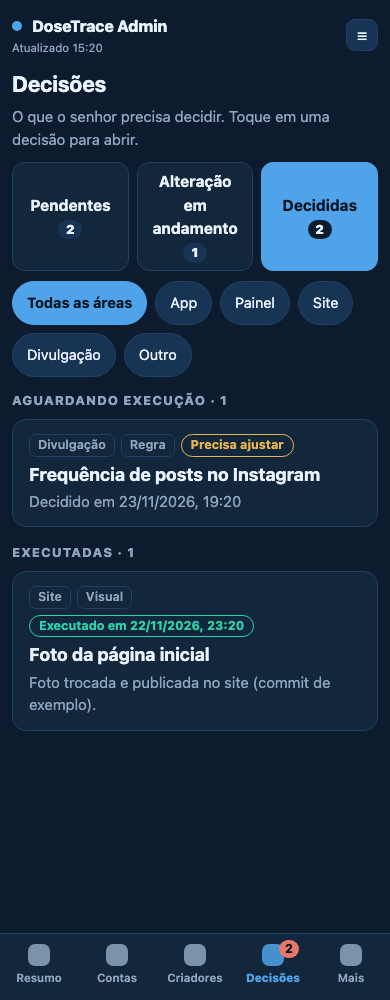
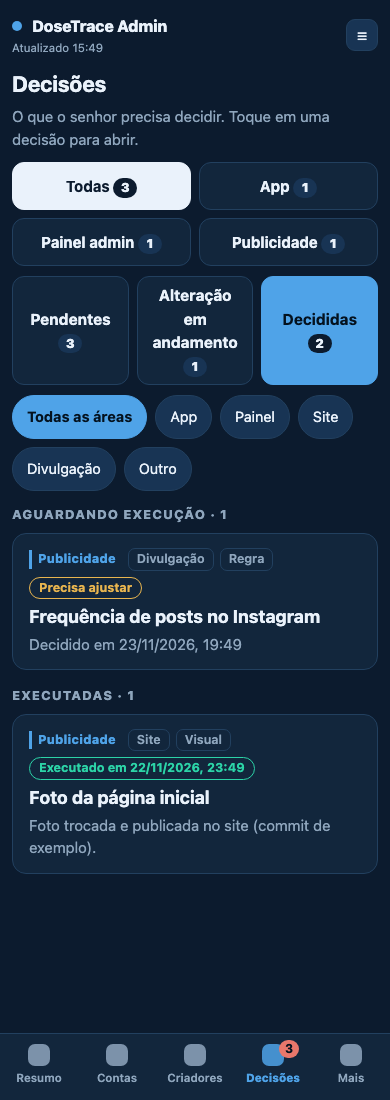
Painel Decisoes: separated by the session that posted it (founder 2026-11-24), test first (DC2, DC7)
Three sessions write decisions: App (origem app), Painel admin (adm) and Publicidade (ads).
- Migration 20261124020000_founder_decisions_origem.sql records what the coordinating session already applied (origem text not null default app, check app/adm/ads, index origem+status); idempotent, header APPLIED 2026-11-24. The alterando migration header now says APPLIED too (verified live: status check lists alterando, rework check present, the save refuses alterando).
- API: origem on every item, by_origem with the counts per group, ?origem= filter (unknown 400); the total counts never filtered.
- Tab: segmented control at the top (Todas, App, Painel admin, Publicidade) with the pending count of each; the group counts follow the chosen origin; an origin label on every card and on the decision page; the tab badge stays the total pending. 6 languages, panel tokens, 2 x 2 on the phone.
- docs/decisoes.md: origem in the insert and in the reads. Captures replaced and added (390 px, light and dark).
Full suite 848, 844 pass, 0 fail, 4 todo. Nothing deployed.

diff --git a/web/adm-decisions.js b/web/adm-decisions.js
@@ -7,7 +7,7 @@
   'use strict';
   var T = {
     en: {
-      title_h: 'Decisions', intro: 'What you need to decide. Tap a decision to open it.',
+      title_h: 'Decisions', o_all: 'All', o_app: 'App', o_adm: 'Admin panel', o_ads: 'Marketing', o_from: 'Posted by', intro: 'What you need to decide. Tap a decision to open it.',
       g_pendentes: 'Pending', g_alterando: 'Being changed', g_decididas: 'Decided',
       area_all: 'All areas', a_app: 'App', a_painel: 'Panel', a_site: 'Website', a_divulgacao: 'Marketing', a_outro: 'Other',
       k_visual: 'Visual', k_texto: 'Text', k_regra: 'Rule', k_outro: 'Other',
@@ -24,7 +24,7 @@
       e_executed: 'This decision has already been carried out and can no longer be changed.', e_rate: 'Too many saves in a short time. Try again in {m} min.', e_choice: 'This option no longer exists in this decision. Open the decision again.', e_generic: 'Could not save ({m}). Your text is still here.', e_code: 'Code not confirmed.',
     },
     pt: {
-      title_h: 'Decisões', intro: 'O que o senhor precisa decidir. Toque em uma decisão para abrir.',
+      title_h: 'Decisões', o_all: 'Todas', o_app: 'App', o_adm: 'Painel admin', o_ads: 'Publicidade', o_from: 'Enviada por', intro: 'O que o senhor precisa decidir. Toque em uma decisão para abrir.',
       g_pendentes: 'Pendentes', g_alterando: 'Alteração em andamento', g_decididas: 'Decididas',
       area_all: 'Todas as áreas', a_app: 'App', a_painel: 'Painel', a_site: 'Site', a_divulgacao: 'Divulgação', a_outro: 'Outro',
       k_visual: 'Visual', k_texto: 'Texto', k_regra: 'Regra', k_outro: 'Outro',
@@ -43,7 +43,7 @@
   };
   function tr(base, over) { var o = {}; Object.keys(base).forEach(function (k) { o[k] = over[k] != null ? over[k] : base[k]; }); return o; }
   T.es = tr(T.en, {
-    title_h: 'Decisiones', intro: 'Lo que tienes que decidir. Toca una decisión para abrirla.', g_pendentes: 'Pendientes', g_alterando: 'Cambio en curso', g_decididas: 'Decididas',
+    title_h: 'Decisiones', o_all: 'Todas', o_app: 'App', o_adm: 'Panel admin', o_ads: 'Publicidad', o_from: 'Enviada por', intro: 'Lo que tienes que decidir. Toca una decisión para abrirla.', g_pendentes: 'Pendientes', g_alterando: 'Cambio en curso', g_decididas: 'Decididas',
     area_all: 'Todas las áreas', a_app: 'App', a_painel: 'Panel', a_site: 'Sitio web', a_divulgacao: 'Difusión', a_outro: 'Otro', k_visual: 'Visual', k_texto: 'Texto', k_regra: 'Regla', k_outro: 'Otro',
     loading: 'Cargando las decisiones…', e_conf: 'La pestaña Decisiones aún no está activa en el servidor (falta aplicar la migración).', e_load: 'No se pudieron cargar las decisiones ({n}).', retry: 'Reintentar',
     empty_pendentes: 'Ninguna decisión pendiente.', empty_alterando: 'Ninguna decisión en cambio.', empty_decididas: 'Aún no hay decisiones tomadas.', sub_waiting: 'Esperando ejecución', sub_executadas: 'Ejecutadas',
@@ -58,7 +58,7 @@
     e_executed: 'Esta decisión ya se ejecutó y ya no se puede cambiar.', e_rate: 'Demasiados guardados en poco tiempo. Inténtalo de nuevo en {m} min.', e_choice: 'Esta opción ya no existe en esta decisión. Abre la decisión de nuevo.', e_generic: 'No se pudo guardar ({m}). Tu texto sigue aquí.', e_code: 'Código no confirmado.',
   });
   T.fr = tr(T.en, {
-    title_h: 'Décisions', intro: 'Ce que vous devez décider. Touchez une décision pour l’ouvrir.', g_pendentes: 'En attente', g_alterando: 'Modification en cours', g_decididas: 'Décidées',
+    title_h: 'Décisions', o_all: 'Toutes', o_app: 'Appli', o_adm: 'Panneau admin', o_ads: 'Publicité', o_from: 'Envoyée par', intro: 'Ce que vous devez décider. Touchez une décision pour l’ouvrir.', g_pendentes: 'En attente', g_alterando: 'Modification en cours', g_decididas: 'Décidées',
     area_all: 'Tous les domaines', a_app: 'Appli', a_painel: 'Panneau', a_site: 'Site web', a_divulgacao: 'Communication', a_outro: 'Autre', k_visual: 'Visuel', k_texto: 'Texte', k_regra: 'Règle', k_outro: 'Autre',
     loading: 'Chargement des décisions…', e_conf: 'L’onglet Décisions n’est pas encore actif sur le serveur (la migration n’a pas été appliquée).', e_load: 'Impossible de charger les décisions ({n}).', retry: 'Réessayer',
     empty_pendentes: 'Aucune décision en attente.', empty_alterando: 'Aucune décision en cours de modification.', empty_decididas: 'Aucune décision prise pour l’instant.', sub_waiting: 'En attente de réalisation', sub_executadas: 'Réalisées',
@@ -73,7 +73,7 @@
     e_executed: 'Cette décision a déjà été réalisée et ne peut plus être modifiée.', e_rate: 'Trop d’enregistrements en peu de temps. Réessayez dans {m} min.', e_choice: 'Cette option n’existe plus dans cette décision. Rouvrez la décision.', e_generic: 'Impossible d’enregistrer ({m}). Votre texte est toujours là.', e_code: 'Code non confirmé.',
   });
   T.de = tr(T.en, {
-    title_h: 'Entscheidungen', intro: 'Was du entscheiden musst. Tippe auf eine Entscheidung, um sie zu öffnen.', g_pendentes: 'Offen', g_alterando: 'Wird geändert', g_decididas: 'Entschieden',
+    title_h: 'Entscheidungen', o_all: 'Alle', o_app: 'App', o_adm: 'Admin-Panel', o_ads: 'Werbung', o_from: 'Gesendet von', intro: 'Was du entscheiden musst. Tippe auf eine Entscheidung, um sie zu öffnen.', g_pendentes: 'Offen', g_alterando: 'Wird geändert', g_decididas: 'Entschieden',
     area_all: 'Alle Bereiche', a_app: 'App', a_painel: 'Panel', a_site: 'Website', a_divulgacao: 'Marketing', a_outro: 'Sonstiges', k_visual: 'Visuell', k_texto: 'Text', k_regra: 'Regel', k_outro: 'Sonstiges',
     loading: 'Entscheidungen werden geladen…', e_conf: 'Der Tab Entscheidungen ist auf dem Server noch nicht aktiv (die Migration fehlt).', e_load: 'Entscheidungen konnten nicht geladen werden ({n}).', retry: 'Erneut versuchen',
     empty_pendentes: 'Keine offene Entscheidung.', empty_alterando: 'Keine Entscheidung wird gerade geändert.', empty_decididas: 'Noch keine Entscheidung getroffen.', sub_waiting: 'Wartet auf Umsetzung', sub_executadas: 'Umgesetzt',
@@ -88,7 +88,7 @@
     e_executed: 'Diese Entscheidung wurde bereits umgesetzt und kann nicht mehr geändert werden.', e_rate: 'Zu viele Speichervorgänge in kurzer Zeit. Versuche es in {m} Min. erneut.', e_choice: 'Diese Option gibt es in dieser Entscheidung nicht mehr. Öffne die Entscheidung erneut.', e_generic: 'Speichern fehlgeschlagen ({m}). Dein Text ist noch da.', e_code: 'Code nicht bestätigt.',
   });
   T.it = tr(T.en, {
-    title_h: 'Decisioni', intro: 'Ciò che devi decidere. Tocca una decisione per aprirla.', g_pendentes: 'In sospeso', g_alterando: 'Modifica in corso', g_decididas: 'Decise',
+    title_h: 'Decisioni', o_all: 'Tutte', o_app: 'App', o_adm: 'Pannello admin', o_ads: 'Pubblicità', o_from: 'Inviata da', intro: 'Ciò che devi decidere. Tocca una decisione per aprirla.', g_pendentes: 'In sospeso', g_alterando: 'Modifica in corso', g_decididas: 'Decise',
     area_all: 'Tutte le aree', a_app: 'App', a_painel: 'Pannello', a_site: 'Sito web', a_divulgacao: 'Promozione', a_outro: 'Altro', k_visual: 'Visivo', k_texto: 'Testo', k_regra: 'Regola', k_outro: 'Altro',
     loading: 'Caricamento delle decisioni…', e_conf: 'La scheda Decisioni non è ancora attiva sul server (manca la migrazione).', e_load: 'Impossibile caricare le decisioni ({n}).', retry: 'Riprova',
     empty_pendentes: 'Nessuna decisione in sospeso.', empty_alterando: 'Nessuna decisione in modifica.', empty_decididas: 'Ancora nessuna decisione presa.', sub_waiting: 'In attesa di esecuzione', sub_executadas: 'Eseguite',
@@ -106,6 +106,8 @@
 
   var GROUPS = ['pendentes', 'alterando', 'decididas'];
   var AREAS = ['app', 'painel', 'site', 'divulgacao', 'outro'];
+  // Which Claude session posted it (founder 2026-11-24): App · Painel admin · Publicidade.
+  var ORIGENS = ['app', 'adm', 'ads'];
   var MAX_NOTE = 4000;
   var DRAFT_KEY = 'dt_adm_dc_draft_';
   function L() { try { return (window.DTADM && window.DTADM.lang()) || 'en'; } catch (e) { return 'en'; } }
@@ -128,7 +130,7 @@
   function dropDraft(id) { try { var s = store(); if (s) s.removeItem(DRAFT_KEY + id); } catch (e) {} }
 
   // ------------------------------------------------------------------ state, API
-  var DC = { root: null, data: null, err: null, loading: false, group: 'pendentes', area: '', sel: null, det: null, detErr: null, draft: null, busy: false, saveErr: null, savedAt: null, box: null };
+  var DC = { root: null, data: null, err: null, loading: false, group: 'pendentes', area: '', origem: '', sel: null, det: null, detErr: null, draft: null, busy: false, saveErr: null, savedAt: null, box: null };
   function api(m, b, q) { return window.DTADM.api(m, b, '/api/adm-decisions' + (q || '')); }
   function pending() { return DC.data && DC.data.counts ? DC.data.counts.pendentes : null; }
   function paintBadge() {
@@ -201,17 +203,20 @@
     var cls = r.status === 'aprovado' ? 'good' : r.status === 'recusado' ? 'bad' : r.status === 'ajustar' ? 'warn' : 'acc';
     return '<span class="dc-st ' + cls + '">' + esc(t('st_' + r.status)) + '</span>';
   }
+  function origLabel(r) { var o = ORIGENS.indexOf(r.origem) >= 0 ? r.origem : 'app'; return '<span class="dc-orig">' + esc(t('o_' + o)) + '</span>'; }
   function tags(r) { return '<span class="dc-tag">' + esc(t('a_' + r.area)) + '</span><span class="dc-tag">' + esc(t('k_' + r.kind)) + '</span>'; }
   function list() {
-    var d = DC.data, c = (d && d.counts) || { pendentes: 0, alterando: 0, decididas: 0, executadas: 0 };
+    var d = DC.data, all = (d && d.counts) || { pendentes: 0, alterando: 0, decididas: 0, executadas: 0 }, by = (d && d.by_origem) || {};
+    var c = DC.origem ? (by[DC.origem] || { pendentes: 0, alterando: 0, decididas: 0, executadas: 0 }) : all;
     var h = '<div class="dc-head"><h2 class="dc-h1">' + esc(t('title_h')) + '</h2><p class="dc-intro">' + esc(t('intro')) + '</p></div>';
+    h += '<div class="dc-orig-seg" role="tablist">' + [''].concat(ORIGENS).map(function (o) { var n = o ? ((by[o] && by[o].pendentes) || 0) : (all.pendentes || 0); return '<button type="button" role="tab" data-a="origem" data-v="' + o + '" class="' + (DC.origem === o ? 'on' : '') + '" aria-selected="' + (DC.origem === o) + '">' + esc(o ? t('o_' + o) : t('o_all')) + ' <b>' + n + '</b></button>'; }).join('') + '</div>';
     h += '<div class="dc-seg" role="tablist">' + GROUPS.map(function (g) { return '<button type="button" role="tab" data-a="group" data-v="' + g + '" class="' + (DC.group === g ? 'on' : '') + '" aria-selected="' + (DC.group === g) + '">' + esc(t('g_' + g)) + ' <b>' + (c[g] || 0) + '</b></button>'; }).join('') + '</div>';
     h += '<div class="dc-areas">' + [''].concat(AREAS).map(function (a) { return '<button type="button" data-a="area" data-v="' + a + '" class="' + (DC.area === a ? 'on' : '') + '" aria-pressed="' + (DC.area === a) + '">' + esc(a ? t('a_' + a) : t('area_all')) + '</button>'; }).join('') + '</div>';
-    var items = ((d && d.items) || []).filter(function (r) { return r.group === DC.group && (!DC.area || r.area === DC.area); });
+    var items = ((d && d.items) || []).filter(function (r) { return r.group === DC.group && (!DC.area || r.area === DC.area) && (!DC.origem || (r.origem || 'app') === DC.origem); });
     if (!items.length) return h + '<div class="dc-empty">' + esc(t('empty_' + DC.group)) + '</div>';
     function card(r) {
       var sub = r.executed_at ? (r.executed_note || '') : r.status === 'alterando' ? t('reworking_since', { d: when(r.rework_at) }) : r.status !== 'pendente' ? (t('decided_on', { d: when(r.decided_at) }) + (r.choice ? ' · ' + r.choice : '')) : r.question;
-      return '<button type="button" class="dc-item" data-a="open" data-v="' + esc(r.id) + '"><span class="dc-item-top">' + tags(r) + stChip(r) + '</span><span class="dc-item-t">' + esc(r.title) + '</span><span class="dc-item-q">' + esc(sub) + '</span></button>';
+      return '<button type="button" class="dc-item" data-a="open" data-v="' + esc(r.id) + '"><span class="dc-item-top">' + origLabel(r) + tags(r) + stChip(r) + '</span><span class="dc-item-t">' + esc(r.title) + '</span><span class="dc-item-q">' + esc(sub) + '</span></button>';
     }
     if (DC.group !== 'decididas') return h + '<div class="dc-list">' + items.map(card).join('') + '</div>';
     var wait = items.filter(function (r) { return !r.executed_at; }), done = items.filter(function (r) { return !!r.executed_at; });
@@ -228,7 +233,7 @@
     if (DC.detErr) return h + '<div class="dc-empty">' + esc(DC.detErr) + '</div>';
     if (!it) return h + '<div class="dc-empty">' + esc(t('loading')) + '</div>';
     var locked = readOnly(), rework = it.status === 'alterando' && !it.executed_at;
-    h += '<div class="dc-meta">' + tags(it) + stChip(it) + '</div><h2 class="dc-title">' + esc(it.title) + '</h2>';
+    h += '<div class="dc-meta">' + origLabel(it) + tags(it) + stChip(it) + '</div><h2 class="dc-title">' + esc(it.title) + '</h2>';
     h += '<div class="dc-small">' + esc(t('created', { d: when(it.created_at) })) + (it.source ? ' · ' + esc(t('from', { s: it.source })) : '') + '</div>';
     if (it.executed_at) h += '<div class="dc-banner good"><b>' + esc(t('executed_at', { d: when(it.executed_at) })) + '</b>' + (it.executed_note ? ' — ' + esc(it.executed_note) : '') + '</div>';
     else if (rework) h += '<div class="dc-banner acc"><b>' + esc(t('reworking_since', { d: when(it.rework_at) })) + '</b><br>' + esc(t('reworking_hint')) + '</div>';
@@ -285,6 +290,7 @@
     var el = ev.target.closest('[data-a]'); if (!el || !DC.root.contains(el)) return;
     var a = el.getAttribute('data-a'), v = el.getAttribute('data-v');
     if (a === 'group') { DC.group = GROUPS.indexOf(v) >= 0 ? v : 'pendentes'; draw(); return; }
+    if (a === 'origem') { DC.origem = ORIGENS.indexOf(v) >= 0 ? v : ''; draw(); return; }
     if (a === 'area') { DC.area = AREAS.indexOf(v) >= 0 ? v : ''; draw(); return; }
     if (a === 'open') { open(v); return; }
     if (a === 'back') { DC.sel = null; DC.det = null; DC.box = null; draw(); return; }
@@ -307,7 +313,7 @@
 
   var STYLE = '.dc{max-width:860px;margin:0 auto}.dc-head{margin:6px 0 12px}.dc-h1{font-size:22px;text-transform:none;letter-spacing:0;color:var(--ink);margin:0 0 4px}.dc-intro{color:var(--muted);font-size:15px;margin:0}'
     + '.dc-seg{display:grid;grid-template-columns:repeat(3,minmax(0,1fr));gap:8px;margin:0 0 10px}.dc-seg button{min-height:52px;font-size:15.5px;font-weight:700;border-radius:12px;background:var(--surface);color:var(--ink)}.dc-seg button b{display:inline-block;min-width:24px;padding:0 6px;border-radius:999px;background:var(--surface2);color:var(--ink);font-size:13px}.dc-seg button.on{background:var(--accent);border-color:var(--accent);color:var(--accent-ink)}.dc-seg button.on b{background:var(--bg);color:var(--ink)}'
-    + '.dc-areas{display:flex;flex-wrap:wrap;gap:8px;margin:0 0 14px}.dc-areas button{min-height:44px;border-radius:999px;font-size:14.5px;padding:6px 14px}'
+    + '.dc-orig-seg{display:grid;grid-template-columns:repeat(4,minmax(0,1fr));gap:8px;margin:0 0 10px}.dcm .dc-orig-seg{grid-template-columns:repeat(2,minmax(0,1fr))}.dc-orig-seg button{min-height:48px;font-size:15px;font-weight:700;border-radius:12px;background:var(--surface);color:var(--ink)}.dc-orig-seg button b{display:inline-block;min-width:24px;padding:0 6px;border-radius:999px;background:var(--surface2);color:var(--ink);font-size:13px}.dc-orig-seg button.on{background:var(--ink);border-color:var(--ink);color:var(--bg)}.dc-orig-seg button.on b{background:var(--bg);color:var(--ink)}.dc-orig{display:inline-block;font-size:12.5px;font-weight:800;color:var(--accent);border-left:3px solid var(--accent);padding:0 6px;letter-spacing:.02em}.dc-areas{display:flex;flex-wrap:wrap;gap:8px;margin:0 0 14px}.dc-areas button{min-height:44px;border-radius:999px;font-size:14.5px;padding:6px 14px}'
     + '.dc-list{display:grid;gap:10px}.dc-item{display:block;width:100%;text-align:left;background:var(--surface);border:1px solid var(--line);border-radius:14px;padding:14px 16px;min-height:72px}.dc-item:hover{border-color:var(--accent)}.dc-item-top{display:flex;flex-wrap:wrap;gap:6px;align-items:center;margin-bottom:6px}.dc-item-t{display:block;font-size:18px;font-weight:700;line-height:1.3;color:var(--ink)}.dc-item-q{display:-webkit-box;-webkit-line-clamp:2;-webkit-box-orient:vertical;overflow:hidden;color:var(--muted);font-size:15px;margin-top:4px;white-space:pre-wrap}'
     + '.dc-tag{display:inline-block;border:1px solid var(--line);color:var(--muted);font-size:12.5px;border-radius:7px;padding:1px 8px;font-weight:600}.dc-st{display:inline-block;font-size:12.5px;border-radius:999px;padding:1px 9px;border:1px solid var(--line);color:var(--muted);font-weight:700}.dc-st.good{color:var(--good);border-color:var(--good)}.dc-st.bad{color:var(--bad);border-color:var(--bad)}.dc-st.warn{color:var(--warn);border-color:var(--warn)}.dc-st.acc{color:var(--accent);border-color:var(--accent)}'
     + '.dc-empty{background:var(--surface);border:1px solid var(--line);border-radius:14px;padding:22px 16px;color:var(--muted);font-size:16px;text-align:center}'
@@ -339,7 +345,7 @@
     pending: pending,
     // Android Back (DTAdminBack): picture → decision → list.
     back: function () { if (!DC.root || !document.body.contains(DC.root)) return false; if (DC.box) { DC.box = null; draw(); return true; } if (DC.sel) { DC.sel = null; DC.det = null; draw(); return true; } return false; },
-    _state: DC, _t: t, _group: groupOf, _safeUrl: safeUrl, _readOnly: readOnly, _detail: detail,
+    _state: DC, _t: t, _group: groupOf, _safeUrl: safeUrl, _readOnly: readOnly, _detail: detail, _list: list,
   };
   var early = document.getElementById('dc-root'); if (early && !early.innerHTML) window.DCTab.mount(early);
 })();

diff --git a/__tests__/admDecisions.test.js b/__tests__/admDecisions.test.js
@@ -22,17 +22,17 @@ const D5 = 'dddddddd-dddd-4ddd-8ddd-ddddddddddd5';
 const NOPE = 'dddddddd-dddd-4ddd-8ddd-ddddddddddd9';
 
 function row(o) {
-  return Object.assign({ created_at: '2026-11-24T12:00:00Z', updated_at: '2026-11-24T12:00:00Z', area: 'app', kind: 'visual', title: 'T', question: 'Q', context: null, founder_said: null, recommendation: null, options: [], links: [], images: [], status: 'pendente', choice: null, note: null, decided_at: null, executed_at: null, executed_note: null, source: 'test', sort: 0 }, o);
+  return Object.assign({ created_at: '2026-11-24T12:00:00Z', updated_at: '2026-11-24T12:00:00Z', area: 'app', kind: 'visual', title: 'T', question: 'Q', context: null, founder_said: null, recommendation: null, options: [], links: [], images: [], status: 'pendente', choice: null, note: null, decided_at: null, executed_at: null, executed_note: null, source: 'test', sort: 0, origem: 'app' }, o);
 }
 function world(o) {
   o = o || {};
   const W = {
     rows: [
       row({ id: D1, title: 'Cor do botão', options: ['A', 'B'], images: [{ label: 'Claro', path: 'app/botao-claro.png' }, { label: 'Desenho', path: 'app/botao.html' }, { label: 'Fora', path: '../etc/passwd' }], links: [{ label: 'Artefato', url: 'https://claude.ai/artifact/x' }, { label: 'Mau', url: 'javascript:alert(1)' }] }),
-      row({ id: D2, area: 'painel', kind: 'texto', title: 'Texto do aviso', status: 'aprovado', decided_at: '2026-11-24T13:00:00Z' }),
-      row({ id: D3, area: 'site', title: 'Já feito', status: 'aprovado', decided_at: '2026-11-23T10:00:00Z', executed_at: '2026-11-23T12:00:00Z', executed_note: 'Feito no commit abc' }),
+      row({ id: D2, origem: 'adm', area: 'painel', kind: 'texto', title: 'Texto do aviso', status: 'aprovado', decided_at: '2026-11-24T13:00:00Z' }),
+      row({ id: D3, origem: 'ads', area: 'site', title: 'Já feito', status: 'aprovado', decided_at: '2026-11-23T10:00:00Z', executed_at: '2026-11-23T12:00:00Z', executed_note: 'Feito no commit abc' }),
       row({ id: D4, area: 'app', title: 'Outra pendente', sort: -1 }),
-      row({ id: D5, area: 'app', title: 'Em retrabalho', status: 'alterando', choice: null, note: 'Mais espaço embaixo.', decided_at: '2026-11-24T14:00:00Z', rework_at: '2026-11-24T15:00:00Z' }),
+      row({ id: D5, origem: 'ads', area: 'app', title: 'Em retrabalho', status: 'alterando', choice: null, note: 'Mais espaço embaixo.', decided_at: '2026-11-24T14:00:00Z', rework_at: '2026-11-24T15:00:00Z' }),
     ],
     events: [],
     rpcCalls: [],
@@ -133,6 +133,17 @@ test('DC2: GET lists every decision with counts per group (pending / being chang
   assert.deepEqual(p.json.counts, r.json.counts, 'the badge count never depends on the filter');
   assert.deepEqual((await get(W, '?status=executadas')).json.items.map((x) => x.id), [D3]);
   assert.deepEqual((await get(W, '?area=painel')).json.items.map((x) => x.id), [D2]);
+  assert.ok(r.json.items.every((x) => ['app', 'adm', 'ads'].indexOf(x.origem) >= 0), 'every item says which session posted it');
+  assert.deepEqual(r.json.by_origem, {
+    app: { pendentes: 2, alterando: 0, decididas: 0, executadas: 0, total: 2 },
+    adm: { pendentes: 0, alterando: 0, decididas: 1, executadas: 0, total: 1 },
+    ads: { pendentes: 0, alterando: 1, decididas: 1, executadas: 1, total: 2 },
+  });
+  const ads = await get(W, '?origem=ads');
+  assert.deepEqual(ads.json.items.map((x) => x.id).sort(), [D3, D5].sort());
+  assert.deepEqual(ads.json.counts, r.json.counts, 'the badge total never depends on the origin filter');
+  assert.deepEqual((await get(W, '?origem=app&status=pendentes')).json.items.map((x) => x.id), [D4, D1]);
+  assert.equal((await get(W, '?origem=site')).code, 400);
   assert.equal((await get(W, '?status=tudo')).code, 400);
   assert.equal((await get(W, '?area=lua')).code, 400);
   assert.equal((await get(W, '?id=nope')).code, 400);
@@ -261,10 +272,10 @@ test('DC4 SQL: founder_decisions + events, RLS on with no policy, service_role S
   assert.ok(!/\bauth\./.test(body), 'nothing in the auth schema');
 });
 
-test('DC6 SQL: "Alteração em andamento" in its own migration on top of the applied one — status alterando with rework_at, executed only after his answer, the save refuses it; one transaction, not applied, the first migration untouched', () => {
+test('DC6 SQL: "Alteração em andamento" in its own migration on top of the applied one — status alterando with rework_at, executed only after his answer, the save refuses it; one transaction, applied 2026-11-24, the first migration untouched', () => {
   const sql = read('supabase/migrations/20261124010000_founder_decisions_alterando.sql');
   const body = sql.split('\n').filter((l) => !/^\s*--/.test(l)).join('\n');
-  assert.match(sql, /STATUS: NOT APPLIED/);
+  assert.match(sql, /STATUS: APPLIED 2026-11-24/);
   assert.equal((body.match(/^begin;$/gm) || []).length, 1); assert.equal((body.match(/^commit;$/gm) || []).length, 1);
   assert.match(body, /add column if not exists rework_at timestamptz;/);
   assert.match(body, /drop constraint if exists founder_decisions_status_check;\nalter table public\.founder_decisions add constraint founder_decisions_status_check\n  check \(status in \('pendente', 'aprovado', 'recusado', 'ajustar', 'alterando'\)\);/);
@@ -336,6 +347,40 @@ test('DC6: a decision being changed opens read only — the "being changed since
   const open = win.DCTab._detail();
   for (const k of ['data-a="status"', 'data-a="choice"', 'id="dc-note"', 'data-a="save"']) assert.ok(open.includes(k), 'editable again: ' + k);
   st.det = null; st.draft = null;
+});
+
+test('DC7: segmented by the session that posted it — "Todas · App · Painel admin · Publicidade" with the pending count of each, group counts follow the chosen origin, a small origin label on every card; the badge stays the total pending', () => {
+  const win = loadInBox('web/adm-decisions.js');
+  const T = win.DC_T;
+  assert.equal(T.pt.o_all, 'Todas'); assert.equal(T.pt.o_app, 'App'); assert.equal(T.pt.o_adm, 'Painel admin'); assert.equal(T.pt.o_ads, 'Publicidade');
+  const st = win.DCTab._state;
+  const it = (id, origem, status, group) => ({ id, origem, status, group, area: 'app', kind: 'visual', title: 'T ' + id, question: 'Q', decided_at: status === 'pendente' ? null : 'x' });
+  st.data = { items: [it('1', 'app', 'pendente', 'pendentes'), it('2', 'app', 'pendente', 'pendentes'), it('3', 'ads', 'pendente', 'pendentes'), it('4', 'adm', 'aprovado', 'decididas')],
+    counts: { pendentes: 3, alterando: 0, decididas: 1, executadas: 0, total: 4 },
+    by_origem: { app: { pendentes: 2, alterando: 0, decididas: 0, executadas: 0, total: 2 }, adm: { pendentes: 0, alterando: 0, decididas: 1, executadas: 0, total: 1 }, ads: { pendentes: 1, alterando: 0, decididas: 0, executadas: 0, total: 1 } } };
+  st.group = 'pendentes'; st.origem = '';
+  let h = win.DCTab._list();
+  const seg = h.match(/<div class="dc-orig-seg"[\s\S]*?<\/div>/)[0];
+  assert.deepEqual([...seg.matchAll(/data-a="origem" data-v="([a-z]*)"/g)].map((m) => m[1]), ['', 'app', 'adm', 'ads']);
+  assert.deepEqual([...seg.matchAll(/<b>(\d+)<\/b>/g)].map((m) => m[1]), ['3', '2', '0', '1'], 'pending per origin');
+  assert.ok(h.indexOf('<div class="dc-orig-seg"') < h.indexOf('<div class="dc-seg"'), 'origin control at the top');
+  assert.equal((h.match(/class="dc-orig"/g) || []).length, 3, 'origin label on each card');
+  st.origem = 'app';
+  h = win.DCTab._list();
+  assert.equal((h.match(/data-a="open"/g) || []).length, 2, 'only the app session');
+  const gseg = h.match(/<div class="dc-seg"[\s\S]*?<\/div>/)[0];
+  assert.deepEqual([...gseg.matchAll(/<b>(\d+)<\/b>/g)].map((m) => m[1]), ['2', '0', '0'], 'group counts of the chosen origin');
+  assert.equal(win.DCTab.pending(), 3, 'badge = total pending, whatever the filter');
+  st.data = null; st.origem = '';
+});
+
+test('DC7 SQL: the origem migration records what is live (applied 2026-11-24), idempotent', () => {
+  const sql = read('supabase/migrations/20261124020000_founder_decisions_origem.sql');
+  const body = sql.split('\n').filter((l) => !/^\s*--/.test(l)).join('\n');
+  assert.match(sql, /STATUS: APPLIED 2026-11-24/);
+  assert.match(body, /alter table public\.founder_decisions add column if not exists origem text not null default 'app'\n  check \(origem in \('app', 'adm', 'ads'\)\);/);
+  assert.match(body, /create index if not exists founder_decisions_origem on public\.founder_decisions \(origem, status\);/);
+  assert.equal((body.match(/^begin;$/gm) || []).length, 1); assert.equal((body.match(/^commit;$/gm) || []).length, 1);
 });
 
 test('DC5: web/adm.html wires the tab — desktop tab and phone tab bar with the pending badge, label ×6, Back key, external links through the bridge, script after the main one; vercel.json lets the signed pictures load', () => {

diff --git a/api/adm-decisions.js b/api/adm-decisions.js
@@ -14,6 +14,8 @@
  *   Groups (founder 2026-11-24): Pendentes (his turn) · Alteração em andamento (status 'alterando', set only by a
  *   Claude session while it reworks the decision; read only) · Decididas (his answer, executed ones included;
  *   item.executed = true and "executadas" is a sub-filter of it). The badge counts only pendentes.
+ *   ?origem=app|adm|ads = which Claude session posted it (App · Painel admin · Publicidade, founder 2026-11-24);
+ *   by_origem = the same counts per origin (never filtered either).
  * GET ?id=<uuid>            → { item } with images[].url = a signed URL valid for 10 minutes (private bucket)
  * PATCH { id, status, choice?, note? }  — only these four keys; status aprovado|recusado|ajustar; choice one of
  *   the decision's options (or null); note up to 4000 characters, line breaks kept. Written by the definer
@@ -30,10 +32,11 @@ const MAX_NOTE = 4000;
 const MAX_CHOICE = 300;
 const LIST_LIMIT = 500;
 const AREAS = ['app', 'painel', 'site', 'divulgacao', 'outro'];
+const ORIGENS = ['app', 'adm', 'ads'];
 const GROUPS = ['pendentes', 'alterando', 'decididas', 'executadas'];
 const STATUSES = ['aprovado', 'recusado', 'ajustar'];
 const WRITABLE = ['id', 'status', 'choice', 'note'];
-const COLS = 'id,created_at,updated_at,area,kind,title,question,context,founder_said,recommendation,options,links,images,status,choice,note,decided_at,rework_at,executed_at,executed_note,source,sort';
+const COLS = 'id,created_at,updated_at,area,kind,title,question,context,founder_said,recommendation,options,links,images,status,choice,note,decided_at,rework_at,executed_at,executed_note,source,sort,origem';
 const UUID_RE = /^[0-9a-f]{8}-[0-9a-f]{4}-[0-9a-f]{4}-[0-9a-f]{4}-[0-9a-f]{12}$/i;
 const PATH_RE = /^[A-Za-z0-9][A-Za-z0-9._/-]{0,250}$/;
 // Control characters other than tab and line break never come from a typed note.
@@ -82,7 +85,7 @@ function shape(r) {
   const links = (Array.isArray(r.links) ? r.links : []).map((l) => ({ label: String((l && l.label) || '').slice(0, 200), url: safeUrl(l && l.url) })).filter((l) => l.url);
   const images = (Array.isArray(r.images) ? r.images : []).map((i) => ({ label: String((i && i.label) || '').slice(0, 200), path: safePath(i && i.path) })).filter((i) => i.path).map((i) => Object.assign(i, { kind: kindOf(i.path) }));
   const options = (Array.isArray(r.options) ? r.options : []).filter((o) => typeof o === 'string');
-  return Object.assign({}, r, { links, images, options, group: groupOf(r), executed: !!r.executed_at });
+  return Object.assign({}, r, { links, images, options, group: groupOf(r), executed: !!r.executed_at, origem: ORIGENS.indexOf(r.origem) >= 0 ? r.origem : 'app' });
 }
 function missing(r) { return r.status === 404 || (r.j && (r.j.code === 'PGRST205' || r.j.code === '42P01' || r.j.code === 'PGRST202')); }
 
@@ -136,17 +139,19 @@ async function handler(req, res, opts) {
         item.images = await sign(sb, item.images);
         return json(res, 200, { item, generated_at: new Date(now).toISOString() });
       }
-      const status = q.get('status'), area = q.get('area');
+      const status = q.get('status'), area = q.get('area'), origem = q.get('origem');
+      if (origem != null && ORIGENS.indexOf(origem) < 0) return json(res, 400, bad('origem'));
       if (status != null && GROUPS.indexOf(status) < 0) return json(res, 400, bad('status'));
       if (area != null && AREAS.indexOf(area) < 0) return json(res, 400, bad('area'));
       const r = await call(sb, '/rest/v1/founder_decisions?select=' + COLS + '&order=sort.asc,created_at.desc&limit=' + LIST_LIMIT);
       if (!r.ok) return json(res, 503, { error: missing(r) ? 'not_configured' : 'unavailable' });
       const all = (Array.isArray(r.j) ? r.j : []).map(shape);
       all.sort((a, b) => (a.sort - b.sort) || (a.created_at < b.created_at ? 1 : a.created_at > b.created_at ? -1 : 0));
-      const counts = { pendentes: 0, alterando: 0, decididas: 0, executadas: 0, total: all.length };
-      for (const x of all) { counts[x.group]++; if (x.executed) counts.executadas++; }
-      const items = all.filter((x) => inFilter(x, status) && (!area || x.area === area));
-      return json(res, 200, { items, counts, generated_at: new Date(now).toISOString() });
+      const zero = () => ({ pendentes: 0, alterando: 0, decididas: 0, executadas: 0, total: 0 });
+      const counts = zero(), by_origem = { app: zero(), adm: zero(), ads: zero() };
+      for (const x of all) for (const c of [counts, by_origem[x.origem]]) { c[x.group]++; if (x.executed) c.executadas++; c.total++; }
+      const items = all.filter((x) => inFilter(x, status) && (!area || x.area === area) && (!origem || x.origem === origem));
+      return json(res, 200, { items, counts, by_origem, generated_at: new Date(now).toISOString() });
     }
     if (method !== 'PATCH') return json(res, 405, { error: 'method' });
     const body = await readBody(req);

diff --git a/docs/decisoes.md b/docs/decisoes.md
@@ -7,8 +7,9 @@ Regras: escrever **tudo** o que ele precisa para decidir sem perguntar (o que de
 ## 1. Criar uma decisão
 
 ```sql
-insert into public.founder_decisions (area, kind, title, question, context, founder_said, recommendation, options, links, images, source)
+insert into public.founder_decisions (origem, area, kind, title, question, context, founder_said, recommendation, options, links, images, source)
 values (
+  'app',                       -- origem = a sessão que envia: app (App) | adm (Painel admin) | ads (Publicidade)
   'app',                       -- app | painel | site | divulgacao | outro
   'visual',                    -- visual | texto | regra | outro
   'Botão "Registrar dose" na tela Hoje',
@@ -42,7 +43,7 @@ select id, area, kind, title, status, choice, note, decided_at
  order by decided_at;
 ```
 
-Grupos no painel (Evandro, 2026-11-24): **Pendentes** (`pendente`) · **Alteração em andamento** (`alterando`, só leitura) · **Decididas** (a resposta dele; as executadas ficam dentro, depois das que aguardam execução). O número na aba conta só `pendente`.
+Grupos no painel (Evandro, 2026-11-24): **Pendentes** (`pendente`) · **Alteração em andamento** (`alterando`, só leitura) · **Decididas** (a resposta dele; as executadas ficam dentro, depois das que aguardam execução). O número na aba conta só `pendente`. No topo, a aba separa pela sessão que enviou (`origem`): Todas · App · Painel admin · Publicidade, cada uma com as suas pendentes; cada sessão lê as suas com `and origem = 'app'` (ou `'adm'`, `'ads'`) nas consultas abaixo.
 
 `status`: `aprovado` (Aprovo) · `recusado` (Não aprovo) · `ajustar` (Precisa ajustar; o que mudar está em `note`). `choice` = a opção escolhida (ou nulo). Histórico de cada gravação dele: `select * from public.founder_decision_events where decision_id = '<id>' order by at;`.
 
@@ -88,4 +89,5 @@ Reabrir por engano (só antes de executar): `update public.founder_decisions set
 | DC3 | Só `status`, `choice`, `note` graváveis (qualquer outro campo 400); observação até 4000 caracteres; corpo acima de 16 KB 413; executada 409; opção fora da lista 400; 60 gravações por hora 429 | DC3 |
 | DC4 | RLS ligada sem política, service_role só SELECT, gravação só pela função definer, bucket privado | DC4 + provas no fim da migração |
 | DC6 | `alterando` só pela sessão (SQL): só leitura no painel, gravação recusada (409), grupo próprio; migração separada sobre a aplicada | DC3 + DC6 |
+| DC7 | Separada pela sessão que enviou (`origem` app/adm/ads; migração 20261124020000, já no ar): controle no topo com as pendentes de cada uma, rótulo em cada cartão, número da aba = total pendente | DC2 + DC7 |
 | DC5 | Aba no computador e no celular com o número de pendentes, 6 idiomas, tokens dos dois temas, botões de 56 px, texto 17 px, voltar do Android fecha uma camada | DC5 + `docs/evidence/decisoes/` (390 px, claro e escuro) |
